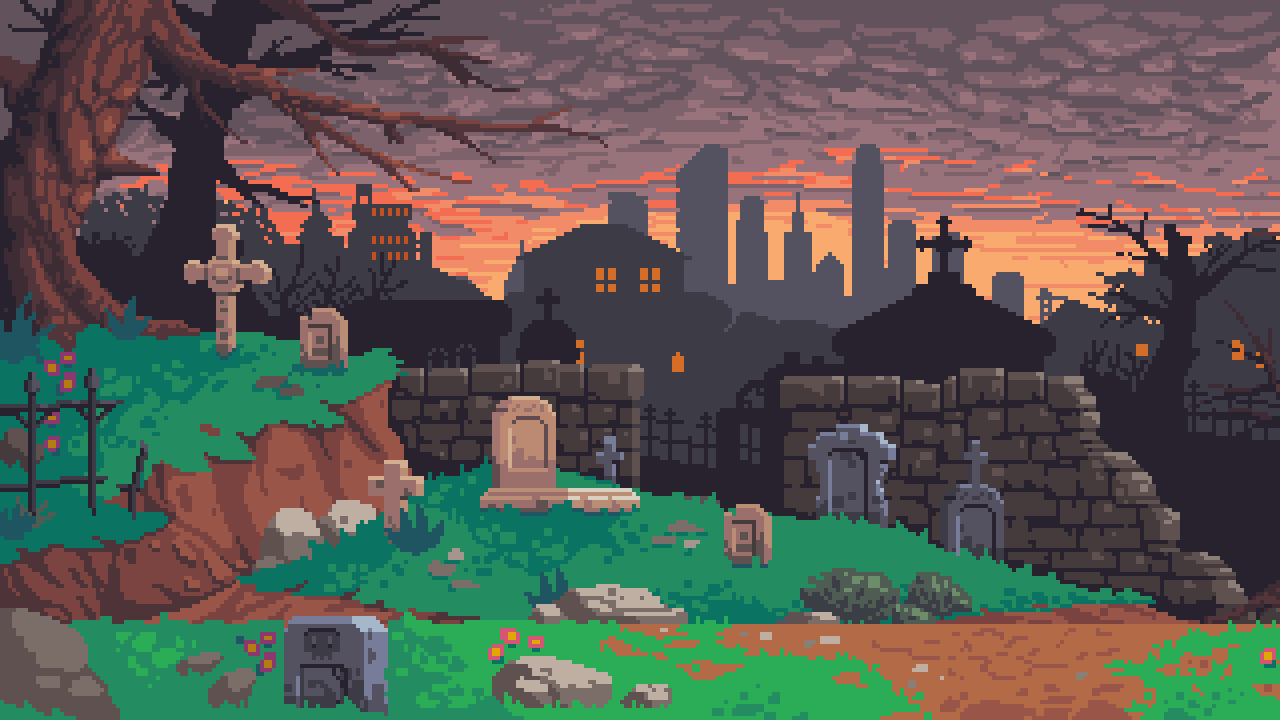
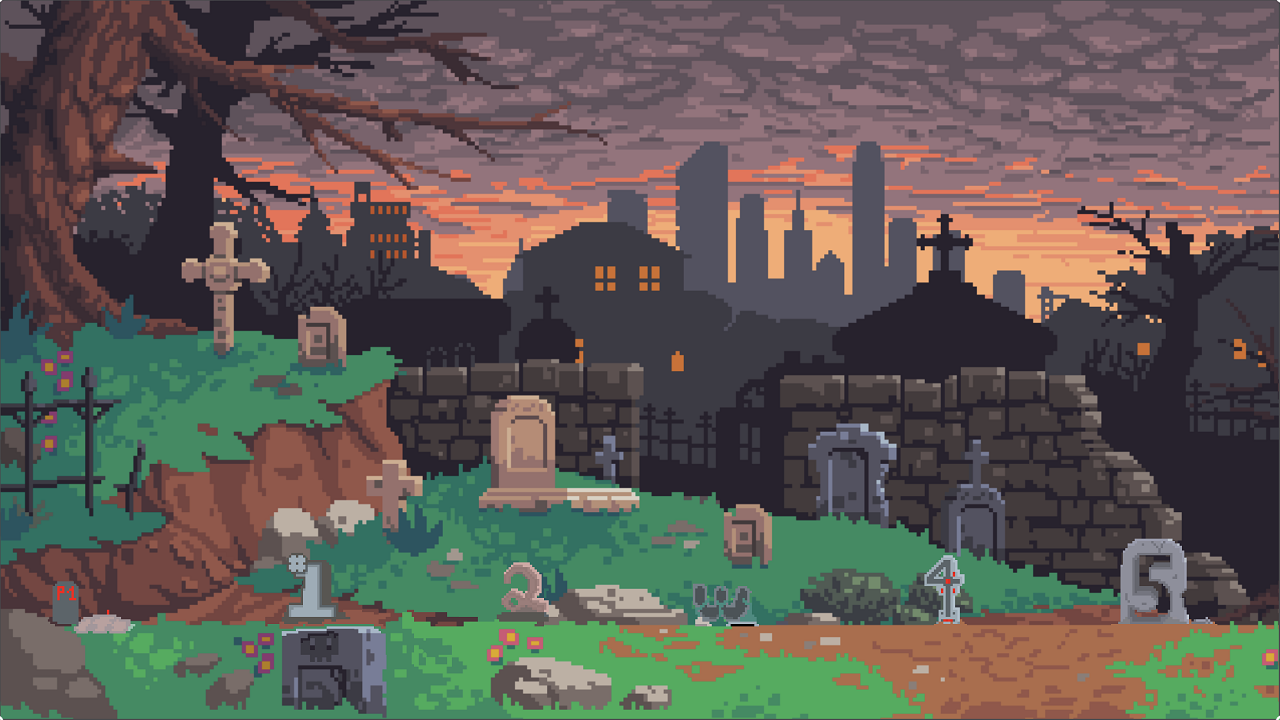
added progress markers

diff --git a/main.py b/main.py
@@ -34,7 +34,7 @@ font = pygame.font.SysFont('comicsans', 30, True)
 
     #TODO 
     #create class for user
-x = 100
+x = 83
 y = 560
 char_width = 64
 char_height = 64
@@ -107,7 +107,7 @@ while 1:
         answr = False
         if text == answer:
             answr = True
-            x += 105
+            x += 205
             progress += 1
             getnewquestion = True
             
